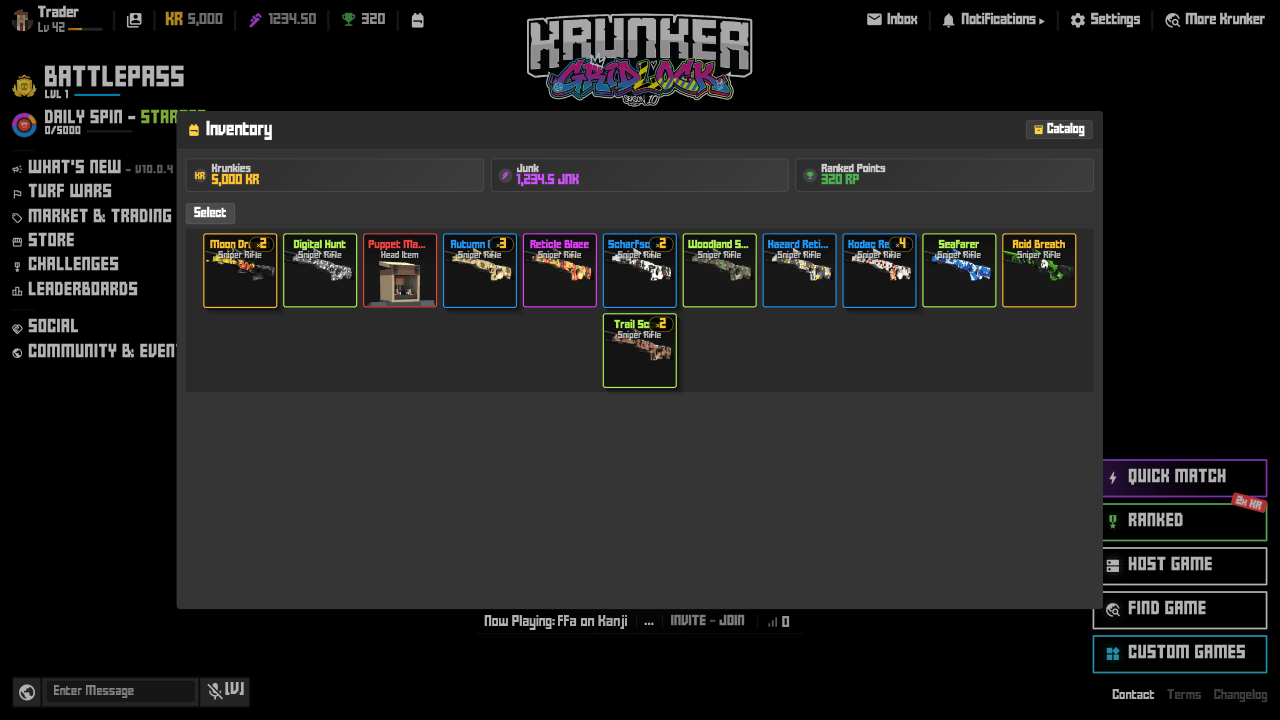
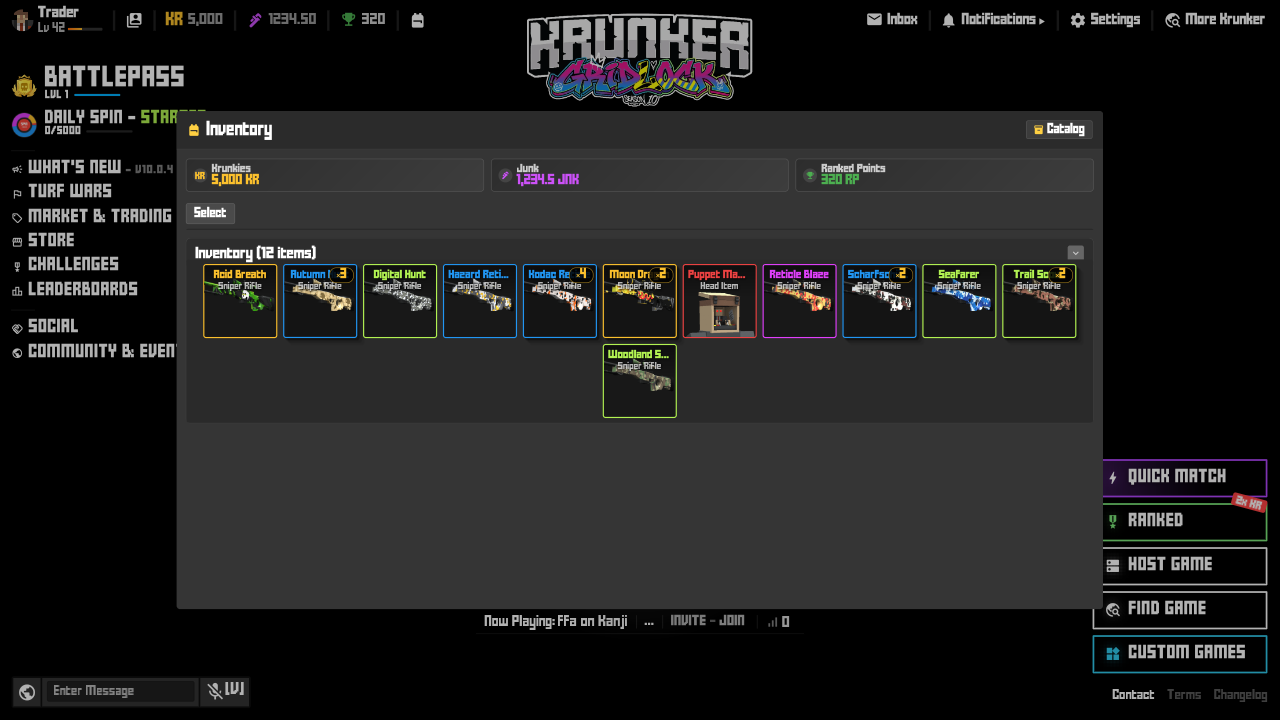
wallet: a tile's lock is v10.0.7's hidden circle, not a button under the card
ui/css/svelte.css carried v10.0.2's svelte-1wcm5z8 block, which has no .lock-toggle rule, so since 9cabc890 every inventory tile drew its lock as a 40 x 33 UA button under the card and grew to 161 px. The block is now v10.0.7's (deob-10.0.7.js:147437): the lock is a 28 x 28 circle at top 44 / right 8, shown on hover or when locked, plus the select-mode and bulk rules.

wallet_item_e2e checks the lock's box from the scenario dump (it fails on the old sheet). The kn-wallet-skins baseline takes the new inventory area only (14.47 -> 0.00 %); tools/uidiff/README.md says why.

Changed region(s): [[0.1562, 0.3056, 0.8438, 0.5806]]

diff --git a/ui/css/svelte.css b/ui/css/svelte.css
@@ -2100,7 +2100,11 @@
   .paint-icon.svelte-1wcm5z8:focus-visible {opacity:1;}.paint-icon.svelte-1wcm5z8:hover {background:rgba(65, 195, 0, 0.92);transform:scale(1.06);}.paint-icon.svelte-1wcm5z8 i.svelte-1wcm5z8 {font-size:18px;color:#41c300;transition:color 0.12s;}.paint-icon.svelte-1wcm5z8:hover i.svelte-1wcm5z8 {color:#111;}.spin-ticket-icon.svelte-1wcm5z8 {position:absolute;top:6px;left:6px;width:32px;height:32px;display:flex;align-items:center;justify-content:center;background:rgba(0, 0, 0, 0.82);border:1px solid rgba(252, 3, 141, 0.45);border-radius:50%;color:#fff;cursor:pointer;opacity:0;padding:0;transition:opacity 0.12s,
       background 0.12s,
       transform 0.12s;}.wallet-item.svelte-1wcm5z8:hover .spin-ticket-icon.svelte-1wcm5z8,
-  .spin-ticket-icon.svelte-1wcm5z8:focus-visible {opacity:1;}.spin-ticket-icon.svelte-1wcm5z8:hover {background:rgba(252, 3, 141, 0.92);transform:scale(1.06);}.spin-ticket-icon.svelte-1wcm5z8 i.svelte-1wcm5z8 {font-size:18px;color:#fc038d;transition:color 0.12s;}.spin-ticket-icon.svelte-1wcm5z8:hover i.svelte-1wcm5z8 {color:#111;}.empty-state.svelte-1wcm5z8 {text-align:center;padding:24px;color:#888;}.empty-state.svelte-1wcm5z8 p.svelte-1wcm5z8 {margin-bottom:16px;}
+  .spin-ticket-icon.svelte-1wcm5z8:focus-visible {opacity:1;}.spin-ticket-icon.svelte-1wcm5z8:hover {background:rgba(252, 3, 141, 0.92);transform:scale(1.06);}.spin-ticket-icon.svelte-1wcm5z8 i.svelte-1wcm5z8 {font-size:18px;color:#fc038d;transition:color 0.12s;}.spin-ticket-icon.svelte-1wcm5z8:hover i.svelte-1wcm5z8 {color:#111;}.lock-toggle.svelte-1wcm5z8 {position:absolute;top:44px;right:8px;width:28px;height:28px;display:flex;align-items:center;justify-content:center;background:rgba(0, 0, 0, 0.82);border:1px solid rgba(255, 255, 255, 0.25);border-radius:50%;cursor:pointer;opacity:0;padding:0;transition:opacity 0.12s;}.wallet-item.svelte-1wcm5z8:hover .lock-toggle.svelte-1wcm5z8,
+  .lock-toggle.svelte-1wcm5z8:focus-visible,
+  .lock-toggle.is-locked.svelte-1wcm5z8 {opacity:1;}.lock-toggle.svelte-1wcm5z8 i.svelte-1wcm5z8 {font-size:16px;color:#ccc;}.lock-toggle.is-locked.svelte-1wcm5z8 {top:8px;border-color:rgba(251, 192, 45, 0.7);}.lock-toggle.is-locked.svelte-1wcm5z8 i.svelte-1wcm5z8 {color:#fbc02d;}.wallet-catalog-btn.active.svelte-1wcm5z8 {background:rgba(251, 192, 45, 0.2);border-color:rgba(251, 192, 45, 0.6);}.wallet-item.bulk-dim.svelte-1wcm5z8 {opacity:0.4;}.wallet-item.bulk-selected.svelte-1wcm5z8::after {content:'';position:absolute;inset:0;border:3px solid #fbc02d;border-radius:4px;pointer-events:none;}.bulk-check.svelte-1wcm5z8,
+  .bulk-lock.svelte-1wcm5z8 {position:absolute;top:6px;left:6px;width:30px;height:30px;display:flex;align-items:center;justify-content:center;background:rgba(0, 0, 0, 0.75);border-radius:4px;pointer-events:none;}.bulk-check.svelte-1wcm5z8 i.svelte-1wcm5z8 {font-size:24px;color:#fbc02d;}.bulk-lock.svelte-1wcm5z8 i.svelte-1wcm5z8 {font-size:18px;color:#ccc;}.bulk-lock.svelte-1wcm5z8 {pointer-events:auto;}.bulk-check-btn.svelte-1wcm5z8 {border:none;padding:0;cursor:pointer;pointer-events:auto;z-index:2;}.bulk-bar.svelte-1wcm5z8 {display:flex;flex-direction:column;gap:8px;padding:12px 16px;background:#2a2a2a;border-top:1px solid rgba(255, 255, 255, 0.1);}.bulk-bar-actions.svelte-1wcm5z8 {display:flex;align-items:center;gap:10px;flex-wrap:wrap;}.bulk-count.svelte-1wcm5z8 {font-size:16px;font-weight:700;}.bulk-sum.svelte-1wcm5z8 {font-size:14px;font-weight:700;color:#fbc02d;}.bulk-keep-panel.svelte-1wcm5z8 {display:flex;flex-wrap:wrap;align-items:center;gap:10px 22px;padding:10px 12px;background:rgba(0, 0, 0, 0.3);border-radius:4px;}.bulk-opt.svelte-1wcm5z8 {display:flex;align-items:center;gap:8px;font-size:13px;cursor:pointer;}.bulk-opt.svelte-1wcm5z8 input[type='range'].svelte-1wcm5z8 {-webkit-appearance:none;appearance:none;width:140px;height:6px;background:rgba(255, 255, 255, 0.25);border-radius:3px;cursor:pointer;}.bulk-opt.svelte-1wcm5z8 input[type='range'].svelte-1wcm5z8::-webkit-slider-thumb {-webkit-appearance:none;width:16px;height:16px;background:#fbc02d;border-radius:50%;}.bulk-opt.svelte-1wcm5z8 input[type='range'].svelte-1wcm5z8::-moz-range-thumb {width:16px;height:16px;background:#fbc02d;border:none;border-radius:50%;}.bulk-opt.svelte-1wcm5z8 input[type='checkbox'].svelte-1wcm5z8 {accent-color:#fbc02d;}.bulk-opt-val.svelte-1wcm5z8 {min-width:110px;color:#fbc02d;font-weight:700;}.bulk-num.svelte-1wcm5z8,
+  .bulk-select.svelte-1wcm5z8 {padding:5px 6px;background:rgba(0, 0, 0, 0.5);border:1px solid rgba(255, 255, 255, 0.12);border-radius:4px;font-size:13px;}.bulk-num.svelte-1wcm5z8 {width:52px;}.bulk-select.svelte-1wcm5z8 option.svelte-1wcm5z8 {color:#000;}.bulk-btn.svelte-1wcm5z8 {display:inline-flex;align-items:center;gap:4px;}.bulk-btn.svelte-1wcm5z8 i.svelte-1wcm5z8 {font-size:16px;}.bulk-btn.active.svelte-1wcm5z8 {background:rgba(251, 192, 45, 0.2);border-color:rgba(251, 192, 45, 0.6);}.bulk-spacer.svelte-1wcm5z8 {flex:1;}.bulk-btn.svelte-1wcm5z8 {padding:8px 14px;background:rgba(255, 255, 255, 0.1);border:1px solid rgba(255, 255, 255, 0.12);border-radius:4px;font-size:13px;font-weight:600;cursor:pointer;}.bulk-btn.svelte-1wcm5z8:hover:not(:disabled) {background:rgba(255, 255, 255, 0.18);}.bulk-btn.svelte-1wcm5z8:disabled {opacity:0.45;cursor:default;}.bulk-kr.svelte-1wcm5z8 {background:#fbc02d;border-color:#fbc02d;color:#000;}.bulk-kr.svelte-1wcm5z8:hover:not(:disabled) {background:#ffd042;}.bulk-junk.svelte-1wcm5z8 {background:#7a5d2b;border-color:#7a5d2b;}.bulk-junk.svelte-1wcm5z8:hover:not(:disabled) {background:#916f35;}.bulk-destroy.svelte-1wcm5z8 {background:#ed4242;border-color:#ed4242;}.empty-state.svelte-1wcm5z8 {text-align:center;padding:24px;color:#888;}.empty-state.svelte-1wcm5z8 p.svelte-1wcm5z8 {margin-bottom:16px;}
 /* svelte-m5jxz9 */
 .crVal.positive.svelte-m5jxz9 {color:#5ce05a;}.crVal.negative.svelte-m5jxz9 {color:#e05a5a;}
 /* svelte-5yw9uo */

diff --git a/client/tests/wallet_item_e2e.py b/client/tests/wallet_item_e2e.py
@@ -9,6 +9,12 @@ The account owns one Topo (store 7819). The Wallet is open, and a real DOM click
 (#knV10WalletGrid .market-card, onclick knV10WalletItem(7819)). The written document must show #itemViewPop
 (display block) named Topo, and no Catalog item page.
 
+The tile's lock (.lock-toggle) is v10.0.7's svelte-1wcm5z8 rule (deob-10.0.7.js:147437): a 28 x 28 circle placed
+absolutely at top 44, right 8 of the tile, under Quick Sell. KRUNKNATIVE_SCENARIO_DUMP='.wallet-item' prints the
+tile's boxes; the lock must sit there and the tile must stay the card's 128 x 128. Without the rule (KN's
+svelte.css carried the v10.0.2 block, which has no .lock-toggle) the button fell under the card as a 40 x 33
+UA button and the tile grew to 161 px.
+
   python3 -I client/tests/wallet_item_e2e.py BUILD_DIR [SRC]
 
 Headless client_bin --render-scenario (KRUNKNATIVE_HEADLESS=1). Exit 77 without client_bin.
@@ -16,6 +22,7 @@ Headless client_bin --render-scenario (KRUNKNATIVE_HEADLESS=1). Exit 77 without 
 import html.parser
 import json
 import os
+import re
 import signal
 import subprocess
 import sys
@@ -64,7 +71,10 @@ class Doc(html.parser.HTMLParser):
                 self.text[c] = self.text.get(c, "") + data
 
 
-def render(tag, state):
+BOX = re.compile(r"^( *)(\S+) <([^>]*)>  local\(([-\d.]+),([-\d.]+) ([\d.]+)x([\d.]+)\)")
+
+
+def render(tag, state, dump=None):
     work = tempfile.mkdtemp(prefix="kn-wallet-item-%s." % tag, dir=os.path.expanduser("~/.cache"))
     path, html_out = os.path.join(work, "scenario.json"), os.path.join(work, "page.html")
     with open(path, "w") as f:
@@ -73,6 +83,8 @@ def render(tag, state):
     env.update(KRUNKNATIVE_HEADLESS="1", KRUNKNATIVE_EGL_DEVICE=os.environ.get("KRUNKNATIVE_EGL_DEVICE", "0"),
                LIBGL_ALWAYS_SOFTWARE="1", KRUNKNATIVE_SCENARIO_HTML=html_out, KRUNKNATIVE_AUDIO_BACKEND="null",
                KRUNKNATIVE_NO_BROWSER="1", KRUNKNATIVE_UPDATES_URL="off", XDG_CONFIG_HOME=os.path.join(work, "cfg"))
+    if dump:
+        env["KRUNKNATIVE_SCENARIO_DUMP"] = dump
     log = os.path.join(work, "client.log")
     with open(log, "w") as out:
         p = subprocess.Popen([BIN, "--render-scenario", path, os.path.join(work, "frame.png")], stdout=out,
@@ -92,6 +104,16 @@ def render(tag, state):
         return doc, f.read(), work
 
 
+def boxes(log):
+    """The dumped box tree's element boxes: [(depth, kind, tag.classes, x, y, w, h)]."""
+    out = []
+    for line in log.splitlines():
+        m = BOX.match(line)
+        if m:
+            out.append((len(m.group(1)), m.group(2), m.group(3)) + tuple(float(m.group(i)) for i in range(4, 8)))
+    return out
+
+
 def state(clicks):
     return {"menu": True, "connected": True, "ready": True, "inGame": False, "name": "Trader", "classIndex": 0,
             "region": "...", "mapName": "Kanji", "mapFile": "maps/311_kanji.json", "gameName": "ffa on Kanji",
@@ -106,12 +128,25 @@ def shown(attrs):
 
 def main():
     # before: the Wallet's tile is there and no popup is up
-    doc, _, work = render("before", state([]))
+    doc, log, work = render("before", state([]), dump=".wallet-item")
     d = Doc()
     d.feed(doc)
     check("before: the Wallet grid draws the Topo tile", "knV10WalletGrid" in d.by_id and
           'onclick="knV10WalletItem(%d)"' % TOPO in doc, work)
     check("before: the item popup is not up", not shown(d.by_id.get("itemViewPop")), d.by_id.get("itemViewPop"))
+
+    # the tile's lock: v10.0.7's .lock-toggle.svelte-1wcm5z8 (absolute, top 44, right 8, 28 x 28)
+    bx = boxes(log)
+    tile = next((b for b in bx if b[0] == 0 and b[2].startswith("div.wallet-item")), None)
+    lock = next((b for b in bx if b[2].startswith("button.lock-toggle")), None)
+    check("lock: the tile and its lock are dumped", tile is not None and lock is not None, work)
+    if tile and lock:
+        tx, ty, tw, th = tile[3:]
+        lx, ly, lw, lh = lock[3:]
+        check("lock: the tile is the card's 128 x 128 (the lock takes no row)", (tw, th) == (128.0, 128.0), tile)
+        check("lock: 28 x 28", (lw, lh) == (28.0, 28.0), lock)
+        check("lock: 44 px under the tile's top", abs(ly - (ty + 44)) < 0.05, (ly, ty))
+        check("lock: 8 px from the tile's right edge", abs((lx + lw) - (tx + tw - 8)) < 0.05, (lx, lw, tx, tw))
 
     # the click on the tile
     doc, log, work = render("click", state(["#knV10WalletGrid .market-card"]))

diff --git a/client/src/ui/v10_wallet.c b/client/src/ui/v10_wallet.c
@@ -1,6 +1,6 @@
 // Krunker v10.0.2's Wallet and Inventory modal (_52368, v10:145475-145480; the template _52366, the
-// stylesheet in ui/css/svelte.css, named svelte-l0gwpc in 10.0.2 and svelte-1wcm5z8 since v10.0.7, deob-10.0.7.js:147378-147412,
-// whose bulk-select / lock rules live in ui/css/main.css). The header's Wallet item (v10's _52516, the
+// stylesheet in ui/css/svelte.css, named svelte-l0gwpc in 10.0.2 and svelte-1wcm5z8 since v10.0.7, deob-10.0.7.js:147378-147412;
+// svelte.css carries the v10.0.7 block (:147437) with its lock and bulk-select rules). The header's Wallet item (v10's _52516, the
 // backpack in #signedInHeaderBar, v10_menu.c) pushes it: a 1600 x 860 dialog on the view stack
 // (_5235(...).push()) with
 //   - the popup header (svelte-4fhlo6: the backpack icon, "Inventory", and the Catalog button in

diff --git a/tools/uidiff/README.md b/tools/uidiff/README.md
@@ -437,6 +437,7 @@ pixel follows an intended change; pixels that differed for any other reason keep
 | `kn-ranked-sort` | 2026-11-23 | The baseline (a956c0fc3, 2026-10-15) predates 2eef54563, which made the ranked leaderboard sort descending as v10 does: `sortColumn` starts at score / ascending and is toggled once on open (`deob-10.0.7.js:110388-110394`, 110414), so the header shows U+2193 (110432; v10.0.2 `game.js` 108074 / 108099 / 108115 is the same). Only the arrow and the row order changed. |
 | `kn-image-collection`, `kn-image-collection-new` | 2026-11-23 | image_collection.c now draws v10.0.7's own markup and wording (`deob-10.0.7.js:214718-214756`: Image Collection / Add Image, the Backgrounds ... Icons tabs, the Select / Delete tiles with their Custom / Default line, the built-in Midnight Snow, the New Image form) instead of Box Office's own (My Images, kn-alt.css's grid, a stacked form). The whole popup changed, by design; the menu behind it is the old reference's. The regions follow the new popups' boxes. |
 | `kn-editor-ai` | 2026-11-24 | b19dc9ab intentionally put the KN-only panel on the editor's GameFont; `layout_finish_scroll` now clamps against clientHeight, so its empty list no longer scrolls 16 px by its padding. Only the panel (x 1230..1611, y 38..928) was re-rendered. Chromium on the captured DOM at dpr 1 agrees with the native header / sign-in / empty / composer regions to 0.111 / 0.178 / 0.067 / 0.340 %; every pixel outside the panel is the old baseline. |
+| `v10-wallet/skins` (`kn-wallet-skins`) | 2026-11-24 | de0cc50c / 9cabc890 / 479514ea made the Wallet v10.0.7's inventory (one tile per copy, the inventory filter's collapsed "Inventory (12 items)" header, name order), and `ui/css/svelte.css` now carries v10.0.7's svelte-1wcm5z8 block (`deob-10.0.7.js:147437`) instead of v10.0.2's, which had no `.lock-toggle` rule: each tile's lock was a 40 x 33 UA button under the card (tile 161 px tall) instead of the hidden 28 x 28 circle at top 44 / right 8. Only the inventory area (x 176..1102, y 230..609) was taken from the new render; the header, the currency cards and everything outside the modal keep the old pixels (0 differing at fuzz 8 in the header rows). `wallet_item_e2e` checks the lock's box. |
 | `kn-servers-official-mixed` | 2026-11-23 | The empty `#kioStatus` line no longer collapses the gap under the tab strip to 22 px (see the 2026-11-23 triage); only the lobby list moved, 8 CSS px down. |
 | `kn-rent-regions`, `kn-rent-region`, `kn-rent-mine`, `kn-rent-server`, `kn-rent-owned` | 2026-11-23 | rent_servers_ui.c now draws v10.0.7's buyServ markup and wording (`deob-10.0.7.js:219853-219935`): no Box Office "Rent a Server" header, region cards without a thumbnail box, tab 3's Server Region / Time remaining / Rental Duration or Extend Time / Select or Change Game / terms / Server Cost, and the message line and buttons outside the panel. The whole window changed, by design; only the region rect (280,50 720x620) was taken from the new render, every pixel outside it keeps the old reference. |
 | `kpd-replay-bar`, `kpd-replay-vote`, `kpd-replay-case` | 2026-11-24 | Round 13 replaces Box Office's replay wording with v10.0.7's (`deob-10.0.7.js:229603-229844`): RESOLVE / HACKER? / SUSPECT and KPD Demo Review / Copy demo link. Only the changed text and its layout were taken from the new renders. |
